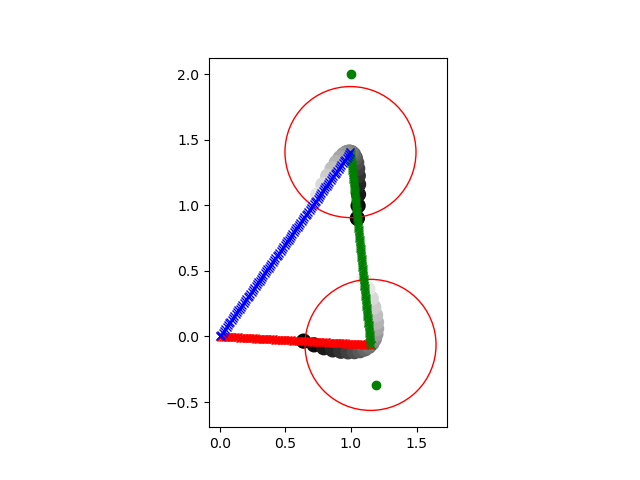
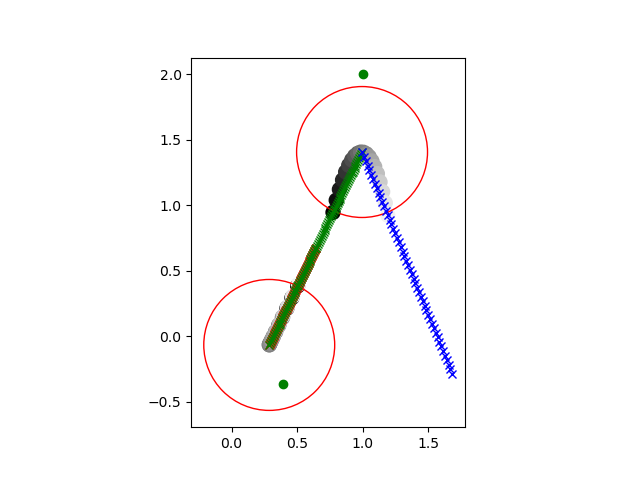
failed because of SafeDistance

diff --git a/src/yolo.py b/src/yolo.py
@@ -3,6 +3,7 @@ import math
 import sys
 import hsrb_interface
 import pyexotica as exo
+import threading
 
 from pickup_ik import pickup_ik
 from pickup_rrt import pickup_rrt_loop
@@ -14,7 +15,7 @@ import my_base_client as base
 
 # Settings
 gazebo=1
-dt=0.15
+dt=0.1
 vel_limit = 0.05
 # Position where the robot is spawned, set in launch file "robot_pos", [x,y,Y]
 spawn_position = [0,0,0]
@@ -42,16 +43,26 @@ if gazebo:
     can_position_list = [[1.1883571178189685, -0.3702856919250638, 0.7998437373020126], [0.3893963418017058, -0.3677819470055569, 0.8017777247505182], [0.7914706058544925, -0.9882949445584605, 0.798380758036232]]
 
 # A basic loop
-def plan(scene_list,scene_list_rrt,start,pick,place,end,plot=1,debug=1):
+def plan(num,scene_list,scene_list_rrt,start,pick,place,end,plot=1,debug=1):
+    '''end[0] is the end position, end[1] is the type of the end (0:xyz 1:xyz)'''
     # Find the base trajectory and find the start and end for AICO pickup
-    print("===Finding the base trajectory and the start and end for AICO pickup")
+    print(num,": ===Finding the base trajectory and the start and end for AICO pickup")
     base_for_pickup = pickup_ik(pick,scene_list,debug=0)
+    print(num,": From pickup_ik, base_for_pickup: ",base_for_pickup[0:3])
     base_for_place = pickup_ik(place,scene_list,debug=0)
-    print("From pickup_ik, base_for_pickup: ",base_for_pickup[0:3])
-    print("From pickup_ik: base_for_place: ",base_for_place[0:3])
+    print(num,": From pickup_ik: base_for_place: ",base_for_place[0:3])
     traj_rrt1_full = pickup_rrt_loop(start,base_for_pickup[0:3],scene_list_rrt,num=5,debug=0)
     traj_rrt2_full = pickup_rrt_loop(base_for_pickup[0:3],base_for_place[0:3],scene_list_rrt,num=5,debug=0)
-    traj_rrt3_full = pickup_rrt_loop(base_for_place[0:3],end,scene_list_rrt,num=5,debug=0)
+    if end[1]:
+        base_for_end = pickup_ik(end[0],scene_list,debug=0)
+        traj_end = pickup_rrt_loop(base_for_place[0:3],base_for_end[0:3],scene_list_rrt,num=5,debug=0)
+        mid = int(len(traj_end)/2)
+        traj_rrt3_full = traj_end[0:mid,:]
+        next_start = traj_end[mid-1,0:3]
+        print(num,": The next start ponit is: ", next_start)
+    else:
+        traj_rrt3_full = pickup_rrt_loop(base_for_place[0:3],end[0],scene_list_rrt,num=5,debug=0)
+        next_start=0
     traj_rrt1,traj_rrt21 = find_aico_point(traj_rrt1_full,traj_rrt2_full,0.25,base_for_pickup,0.5)
     traj_rrt2,traj_rrt3 = find_aico_point(traj_rrt21,traj_rrt3_full,0.25,base_for_place,0.5)
     aico_start1,aico_end1 = traj_rrt1[-1,:],traj_rrt21[0,:]
@@ -60,15 +71,15 @@ def plan(scene_list,scene_list_rrt,start,pick,place,end,plot=1,debug=1):
     # Change the orientation of the path for better grasping
     start_orientation1 = math.atan2(pick[1]-aico_start1[1],pick[0]-aico_start1[0])
     traj_rrt1[:,2] = np.linspace(traj_rrt1[0,2],start_orientation1,len(traj_rrt1),endpoint=True)
+    aico_start1[2]=start_orientation1
+    print(num,": From find_aico_point, start1 and end1: ", aico_start1,aico_end1)
     start_orientation2 = math.atan2(place[1]-aico_start2[1],place[0]-aico_start2[0])
     traj_rrt2[:,2] = np.linspace(traj_rrt2[0,2],start_orientation2,len(traj_rrt2),endpoint=True)
-    aico_start1[2]=start_orientation1
     aico_start2[2]=start_orientation2
-    print("From find_aico_point, start1 and end1: ", aico_start1,aico_end1)
-    print("From find_aico_point, start2 and end2: ", aico_start2,aico_end2)
+    print(num,": From find_aico_point, start2 and end2: ", aico_start2,aico_end2)
 
     # Find the base trajectory during AICO
-    print("===Finding the base trajectory during AICO")
+    print(num,": ===Finding the base trajectory during AICO")
     traj_path1=sys.path[0]+"/pickup_traj/base1.traj"
     traj_path2=sys.path[0]+"/pickup_traj/base2.traj"
     x1,y1 = my_aico_traj_new(aico_start1,aico_end1,base_for_pickup,20,traj_path1)
@@ -93,7 +104,7 @@ def plan(scene_list,scene_list_rrt,start,pick,place,end,plot=1,debug=1):
         plt.savefig(sys.path[0]+"/pickup_traj/Trajectories.png")
         plt.show()
     
-    print("===Finding the arm and base trajectory for grasping")
+    print(num,": ===Finding the arm and base trajectory for grasping")
     traj_aico1 = pickup_aico(pick,traj_path1,scene_list,gripper_orientation=0,debug=0,doplot=0)
     traj_aico2 = pickup_aico(place,traj_path2,scene_list,gripper_orientation=0,debug=0,doplot=0)
 
@@ -105,19 +116,20 @@ def plan(scene_list,scene_list_rrt,start,pick,place,end,plot=1,debug=1):
         traj_rrt3 = np.concatenate((traj_rrt3,np.resize(arm_traj,(len(traj_rrt3),5))), axis=1)
         print("ALL DONE, Looping the solution in RViz")
         my_pickup(np.concatenate((traj_rrt1,traj_aico1,traj_rrt2,traj_aico2,traj_rrt3), axis=0),pick,scene_list)
-    return [traj_rrt1,traj_rrt2,traj_rrt3,traj_aico1,traj_aico2]
+    print(num,": Planning done")
+    return [traj_rrt1,traj_rrt2,traj_rrt3,traj_aico1,traj_aico2],next_start
     
-def follow(traj,spawn_position,client,dt,vel_limit):
+def follow(num,traj,spawn_position,client,dt,vel_limit):
     traj_rrt1,traj_rrt2,traj_rrt3,traj_aico1,traj_aico2 = traj
     cli_arm, cli_base, whole_body, hsrb_gripper = client
 
     # Constrct base list of rrt part1
-    print("Constrcting TrajectoryPoint list for rrt part1")
+    print(num,": Constrcting TrajectoryPoint list for rrt part1")
     KDLFrame_startbase = exo.KDLFrame([spawn_position[0],spawn_position[1],0,0,0,spawn_position[2]])
     base_list = np.array([my_traj_transform(traj_rrt1[i], KDLFrame_startbase) for i in range(len(traj_rrt1))])
     p_base_list_1 = base.prepare_rrt(base_list,vel_limit)
     # Constrct base list of aico part1
-    print("Constrcting TrajectoryPoint list for aico part1")
+    print(num,": Constrcting TrajectoryPoint list for aico part1")
     time_list = np.arange(0.0,dt*len(traj_aico1),dt)
     arm_list = traj_aico1[:,3:8]
     arm_list = np.c_[arm_list,time_list]
@@ -129,11 +141,11 @@ def follow(traj,spawn_position,client,dt,vel_limit):
     base_list = base_list[1::]
     p_base_list_2 = base.prepare_aico(base_list,dt)
     # Constrct base list of rrt part2
-    print("Constrcting TrajectoryPoint list for  rrt part2")
+    print(num,": Constrcting TrajectoryPoint list for  rrt part2")
     base_list = np.array([my_traj_transform(traj_rrt2[i], KDLFrame_startbase) for i in range(len(traj_rrt2))])
     p_base_list_3 = base.prepare_rrt(base_list,vel_limit)
     # Constrct base list of aico part2
-    print("Constrcting TrajectoryPoint list for aico part2")
+    print(num,": Constrcting TrajectoryPoint list for aico part2")
     time_list = np.arange(0.0,dt*len(traj_aico2),dt)
     arm_list = traj_aico2[:,3:8]
     arm_list = np.c_[arm_list,time_list]
@@ -145,45 +157,78 @@ def follow(traj,spawn_position,client,dt,vel_limit):
     base_list = base_list[1::]
     p_base_list_4 = base.prepare_aico(base_list,dt)
     # Constrct base list of rrt part3
-    print("Constrcting TrajectoryPoint list for  rrt part3")
+    print(num,": Constrcting TrajectoryPoint list for  rrt part3")
     base_list = np.array([my_traj_transform(traj_rrt3[i], KDLFrame_startbase) for i in range(len(traj_rrt3))])
     p_base_list_5 = base.prepare_rrt(base_list,vel_limit)
     
     # Run!!
     rospy.set_param('pickup_status', 0)
-    print("Loading base goal1")
+    print(num,": Loading base goal1")
     base.load_base_goal_pickup(p_base_list_1,cli_base)
     while rospy.get_param("pickup_status")==0:
-        rospy.sleep(0.1)
+        rospy.sleep(0.5)
 
-    print("Loading base goal2")
+    print(num,": Loading base goal2")
     base.load_base_goal_pickup(p_base_list_2,cli_base)
     arm.load_arm_goal_pickup(p_arm_list1,cli_arm)
     rospy.sleep(4*dt/0.1)
     hsrb_gripper.apply_force(0.2, delicate = True)
     while rospy.get_param("pickup_status")<3:
-        rospy.sleep(0.1)
+        rospy.sleep(0.5)
 
-    print("Loading base goal3")
+    print(num,": Loading base goal3")
     base.load_base_goal_pickup(p_base_list_3,cli_base)
     while rospy.get_param("pickup_status")==3:
-        rospy.sleep(0.1)
+        rospy.sleep(0.5)
 
-    print("Loading base goal4")
+    print(num,": Loading base goal4")
     base.load_base_goal_pickup(p_base_list_4,cli_base)
     arm.load_arm_goal_pickup(p_arm_list2,cli_arm)
     rospy.sleep(4*dt/0.1)
     hsrb_gripper.command(0.8)
     while rospy.get_param("pickup_status")<6:
-        rospy.sleep(0.1)
+        rospy.sleep(0.5)
 
-    print("Loading base goal5")
+    print(num,": Loading base goal5")
     base.load_base_goal_pickup(p_base_list_5,cli_base)
     while rospy.get_param("pickup_status")==6:
-        rospy.sleep(0.1)
+        rospy.sleep(0.5)
+
+    print(num,": All Done :)")
+
+for i in range(len(can_position_list)):
+    if i==(len(can_position_list)-1):
+        end = [end_position,0]
+    else:
+        end = [can_position_list[i+1],1]
+    traj,start_position = plan(i,scene_list,scene_list_rrt,start_position,can_position_list[i],place_position,end,plot=0,debug=1-gazebo)
+    follow(i,traj,spawn_position,client_all,dt,vel_limit)
 
 
-    print('All Done :)')
+# yolo = threading.Thread(target=follow)
+# for i in range(len(can_position_list)):
+#     if i==(len(can_position_list)-1):
+#         end = [end_position,0]
+#     else:
+#         end = [can_position_list[i+1],1]
+#     traj,start_position = plan(i,scene_list,scene_list_rrt,start_position,can_position_list[i],place_position,end,plot=0,debug=1-gazebo)
+#     while True:
+#         if yolo.is_alive():
+#             rospy.sleep(1)
+#         else:
+#             break
+#     yolo = threading.Thread(target=follow,args=[i,traj,spawn_position,client_all,dt,vel_limit])
+#     yolo.start()
 
-traj = plan(scene_list,scene_list_rrt,start_position,can_position_list[0],place_position,end_position,plot=1,debug=1-gazebo)
-follow(traj,spawn_position,client_all,dt,vel_limit)
+
+
+# yolo = Thread(target=follow,args=[traj,spawn_position,client_all,dt,vel_limit])
+# traj1,next_start = plan(scene_list,scene_list_rrt,start_position,can_position_list[0],place_position,[can_position_list[1],1],plot=0,debug=1-gazebo)
+# traj2,next_start = plan(scene_list,scene_list_rrt,next_start,can_position_list[1],place_position,[can_position_list[2],1],plot=0,debug=1-gazebo)
+# traj3,next_start = plan(scene_list,scene_list_rrt,next_start,can_position_list[2],place_position,[end_position,0],plot=0,debug=1-gazebo)
+
+# follow(traj1,spawn_position,client_all,dt,vel_limit)
+
+# follow(traj2,spawn_position,client_all,dt,vel_limit)
+
+# follow(traj3,spawn_position,client_all,dt,vel_limit)

diff --git a/src/my_base_client.py b/src/my_base_client.py
@@ -6,6 +6,7 @@ import trajectory_msgs.msg
 
 # Three callback functions for the arm action client
 def active_cb_base():
+    return
     print('[ACTIVE_BASE] goal active')
 def feedback_cb_base(feedback):
     return
@@ -54,10 +55,10 @@ def load_base_goal(base_list,cli_base,dt):
 
 # Callback functions for the base action client used in pickup
 def done_cb_base_pickup(state, result):
-    print('[DONE_BASE] the state is: '+str(state))
-    print('[DONE_BASE] the result is: '+str(result))
+    # print('[DONE_BASE] the state is: '+str(state))
+    # print('[DONE_BASE] the result is: '+str(result))
     if state == 3:
-        print('[BASE FINISHED]')
+        # print('[BASE FINISHED]')
         n = int(rospy.get_param("pickup_status"))+1
         rospy.set_param('pickup_status', n)
         return

diff --git a/src/my_arm_client.py b/src/my_arm_client.py
@@ -6,6 +6,7 @@ import trajectory_msgs.msg
 
 # Three callback functions for the arm action client
 def active_cb_arm():
+    return
     print('[ACTIVE_ARM] arm goal active')
 def feedback_cb_arm(feedback):
     return
@@ -57,7 +58,7 @@ def done_cb_arm_pickup(state, result):
     # print('[DONE_ARM] the state is: '+str(state))
     # print('[DONE_ARM] the result is: '+str(result))
     if state == 3:
-        print('[ARM FINISHED]')
+        # print('[ARM FINISHED]')
         n = int(rospy.get_param("pickup_status"))+1
         rospy.set_param('pickup_status', n)
         return

diff --git a/src/pickup_rrt.py b/src/pickup_rrt.py
@@ -99,4 +99,4 @@ def pickup_rrt_loop(start, goal,scene_list,num=5,debug=1):
 if __name__ == '__main__':
     scene_list_rrt = ["{hsr123}/resources/meeting_room_table.scene","{hsr123}/resources/box.scene"]
     # pickup_rrt([-1,-2,0],[ 0.9187 ,-0.0243, -2.0765],scene_list, debug=1)
-    pickup_rrt_loop([ 1.1491, -0.0641, -1.2076],[0.9961, 1.4072, 1.4161],scene_list_rrt,num=5)
+    pickup_rrt_loop([ 1.646 , -0.2155 , 1.3856], [ 0.8926 ,-1.359,   1.4979],scene_list_rrt,num=5)
